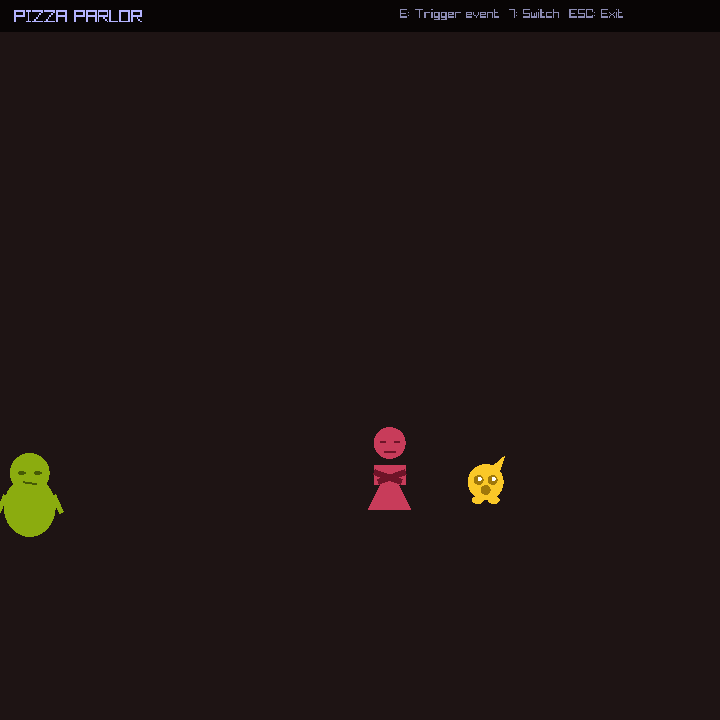
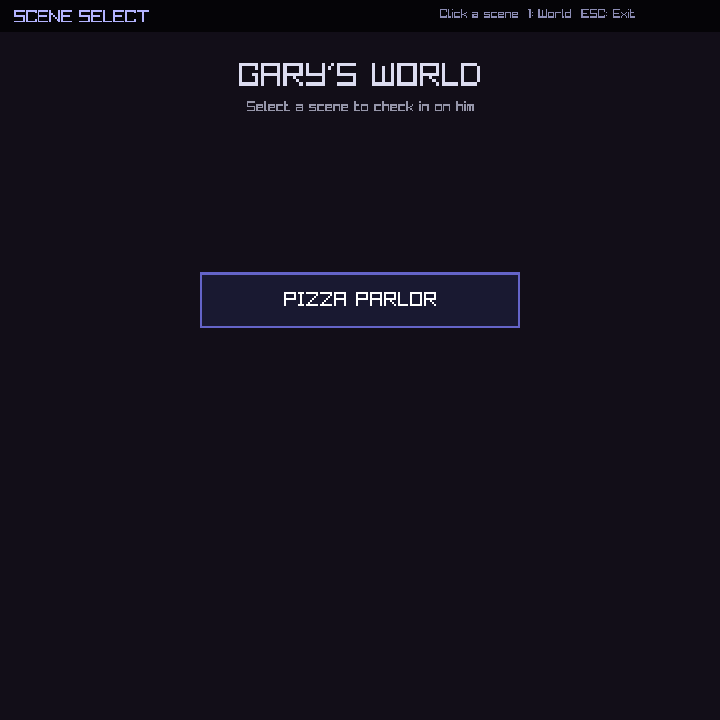
main: Add SceneSelectScene - register scene, KEY_SEVEN switches to scene_select, hide dialog on scene_select, overlay text updates for pizza_parlor and scene_select, game/boss overlay adds "7: Scenes"

diff --git a/src/game/SceneSelectScene.cpp b/src/game/SceneSelectScene.cpp
@@ -1,0 +1,56 @@
+#include "SceneSelectScene.hpp"
+#include "GameConstants.hpp"
+
+static const Color SELECT_BG_COLOR = {18, 14, 24, 255};
+static const float BUTTON_WIDTH = 320.0f;
+static const float BUTTON_HEIGHT = 56.0f;
+static const float BUTTON_SPACING = 20.0f;
+
+SceneSelectScene::SceneSelectScene(SceneManager* manager)
+    : Scene((float)GAME_W, (float)GAME_H, SELECT_BG_COLOR), sceneManager(manager) {
+}
+
+void SceneSelectScene::addSceneButton(const std::string& label, const std::string& sceneName, float y) {
+    Button* btn = new Button({(float)GAME_W / 2.0f, y}, BUTTON_WIDTH, BUTTON_HEIGHT, label);
+    btn->setAnchor("center");
+    SceneManager* mgr = sceneManager;
+    btn->setOnClick([mgr, sceneName]() {
+        mgr->switchScene(sceneName, TransitionEffect::FADE, 0.5f);
+    });
+    buttons.push_back(std::unique_ptr<Button>(btn));
+}
+
+void SceneSelectScene::init() {
+    buttons.clear();
+
+    // Only the narrative/"world" side-scenes belong here -- the tomagotchi
+    // pet-sim side has its own scenes, not listed on this hub.
+    float startY = (float)GAME_H / 2.0f - 60.0f;
+    addSceneButton("PIZZA PARLOR", "pizza_parlor", startY);
+
+    // Future world-scenes get one more addSceneButton() call here.
+}
+
+void SceneSelectScene::update(float deltaTime) {
+    Scene::update(deltaTime);
+
+    SceneInputHandler* input = getInputHandler();
+    for (auto& btn : buttons) {
+        btn->update(input, deltaTime);
+    }
+}
+
+void SceneSelectScene::draw() {
+    Scene::draw();
+
+    int titleWidth = MeasureText("GARY'S WORLD", 32);
+    DrawText("GARY'S WORLD", (int)((float)GAME_W / 2.0f - titleWidth / 2.0f), 60, 32, {220, 220, 240, 255});
+
+    const char* subtitle = "Select a scene to check in on him";
+    int subWidth = MeasureText(subtitle, 14);
+    DrawText(subtitle, (int)((float)GAME_W / 2.0f - subWidth / 2.0f), 100, 14, {150, 150, 170, 255});
+
+    for (auto& btn : buttons) {
+        btn->draw();
+    }
+}

diff --git a/src/game/SceneSelectScene.hpp b/src/game/SceneSelectScene.hpp
@@ -1,0 +1,31 @@
+#ifndef SCENE_SELECT_SCENE_HPP
+#define SCENE_SELECT_SCENE_HPP
+
+#include "Scene.hpp"
+#include "Button.hpp"
+#include "SceneManager.hpp"
+#include <vector>
+#include <memory>
+#include <string>
+
+// Hub scene listing the gotchi's "world" side-scenes (pizza parlor, etc,
+// owned by the narrative side of the project -- not the tomagotchi/pet-sim
+// scenes). One button per registered scene; clicking a button switches the
+// SceneManager to that scene. New world-scenes get added here as they're
+// built, instead of claiming another number key in main.cpp.
+class SceneSelectScene : public Scene {
+public:
+    SceneSelectScene(SceneManager* manager);
+
+    void init() override;
+    void update(float deltaTime) override;
+    void draw() override;
+
+private:
+    SceneManager* sceneManager;
+    std::vector<std::unique_ptr<Button>> buttons;
+
+    void addSceneButton(const std::string& label, const std::string& sceneName, float y);
+};
+
+#endif // SCENE_SELECT_SCENE_HPP

diff --git a/src/main.cpp b/src/main.cpp
@@ -6,6 +6,7 @@
 #include "game/InputTestScene.hpp"
 #include "game/SpriteTestScene.hpp"
 #include "game/PizzaParlorScene.hpp"
+#include "game/SceneSelectScene.hpp"
 #include "game/DialogSequences.hpp"
 #include <string>
 #include <vector>
@@ -82,12 +83,12 @@ void UpdateDrawFrame() {
         dialogIndex = 0;
         if (currentScene == "game") showDialog(gameDialogs, 0);
         if (currentScene == "boss") showDialog(bossDialogs, 0);
-        if (currentScene == "pizza_parlor") dialog->hide();
+        if (currentScene == "pizza_parlor" || currentScene == "scene_select") dialog->hide();
         lastScene = currentScene;
     }
 
     // Hide dialog on standalone debug scenes
-    if (currentScene == "input_test" || currentScene == "sprite_test") {
+    if (currentScene == "input_test" || currentScene == "sprite_test" || currentScene == "scene_select") {
         dialog->hide();
     }
 
@@ -99,8 +100,8 @@ void UpdateDrawFrame() {
         sceneManager->switchScene("input_test", TransitionEffect::FADE, 0.5f);
     if (IsKeyPressed(KEY_FOUR) && currentScene != "sprite_test")
         sceneManager->switchScene("sprite_test", TransitionEffect::FADE, 0.5f);
-    if (IsKeyPressed(KEY_SEVEN) && currentScene != "pizza_parlor")
-        sceneManager->switchScene("pizza_parlor", TransitionEffect::FADE, 0.5f);
+    if (IsKeyPressed(KEY_SEVEN) && currentScene != "scene_select")
+        sceneManager->switchScene("scene_select", TransitionEffect::FADE, 0.5f);
 
     bool onGameOrBoss = (currentScene == "game" || currentScene == "boss");
 
@@ -152,11 +153,14 @@ void UpdateDrawFrame() {
             DrawText("1: World  2: Boss  3: Input  4: Sprite  ESC: Exit", GAME_W - 320, 8, 12, {140, 140, 180, 255});
         } else if (currentScene == "pizza_parlor") {
             DrawText("PIZZA PARLOR", 14, 8, 18, {180, 180, 255, 255});
-            DrawText("E: Trigger event  7: Switch  ESC: Exit", GAME_W - 320, 8, 12, {140, 140, 180, 255});
+            DrawText("E: Trigger event  7: Scene Select  ESC: Exit", GAME_W - 320, 8, 12, {140, 140, 180, 255});
+        } else if (currentScene == "scene_select") {
+            DrawText("SCENE SELECT", 14, 8, 18, {180, 180, 255, 255});
+            DrawText("Click a scene  1: World  ESC: Exit", GAME_W - 280, 8, 12, {140, 140, 180, 255});
         } else {
             std::string sceneLabel = (currentScene == "boss") ? "BOSS ARENA" : "OVERWORLD";
             DrawText(sceneLabel.c_str(), 14, 8, 18, {180, 180, 255, 255});
-            DrawText("1: World  2: Boss  H: Dialog  0: Menu", GAME_W - 280, 8, 12, {140, 140, 180, 255});
+            DrawText("1: World  2: Boss  7: Scenes  H: Dialog  0: Menu", GAME_W - 320, 8, 12, {140, 140, 180, 255});
         }
     EndTextureMode();
 
@@ -199,6 +203,7 @@ int main() {
     sceneManager->registerScene("input_test", new InputTestScene());
     sceneManager->registerScene("sprite_test", new SpriteTestScene());
     sceneManager->registerScene("pizza_parlor", new PizzaParlorScene(dialog));
+    sceneManager->registerScene("scene_select", new SceneSelectScene(sceneManager));
 #ifdef HEXA_SHOT_TOOL
     sceneManager->switchSceneImmediate(
         (shotScene && shotScene[0]) ? shotScene : "game");